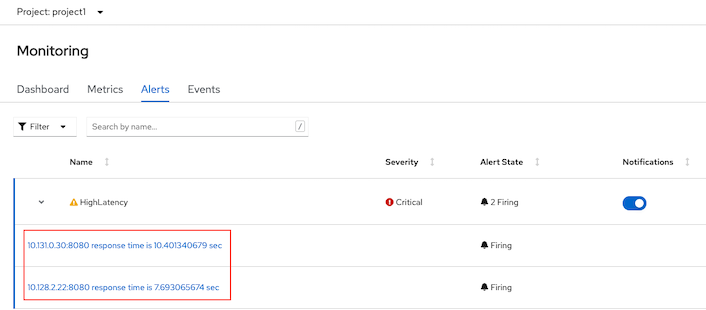
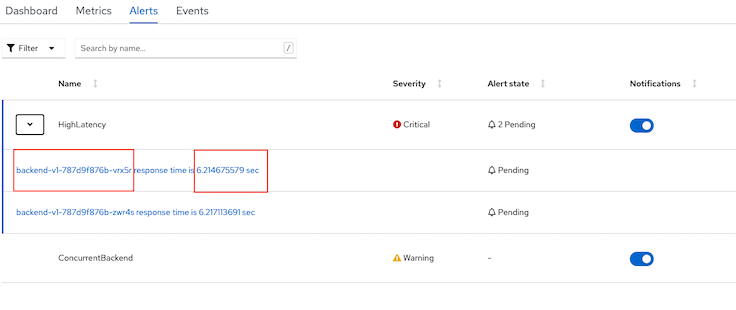
update latency alert

diff --git a/application-metrics.md b/application-metrics.md
@@ -285,10 +285,16 @@ Use Grafana Operator (Community Edition) to deploy Grafana and configure datasou
   [backend-app-alert](manifests/backend-custom-alert.yaml) is consists with 2 following alerts:
   
   - ConcurrentBackend
-    severity warning when total concurrent reqeusts is greater than 15
-  - HighLatency
-    servierity critical when response time is greateer than 5 sec  
 
+    ```
+    Severity warning when total concurrent reqeusts is greater than 15 sustains 1 minute
+    ```
+
+  - HighLatency
+
+    ```
+    Servierity critical when response time is greater than 5 seconds sustains 1 minute
+    ```
 
 - Create [backend-app-alert](manifests/backend-custom-alert.yaml) 
 
@@ -314,11 +320,13 @@ Use Grafana Operator (Community Edition) to deploy Grafana and configure datasou
   ```
   
 - Test `ConcurrentBackend` alert with 25 concurrent requests
+  - Run load test tool
 
   ```bash
   FRONTEND_URL=https://$(oc get route frontend -n project1 -o jsonpath='{.spec.host}')
   siege -c 25 $FRONTEND_URL
   ```
+
   If you don't have siege, run k6 as pod on OpenShift
   - 25 threads
   - Duration 2 minutes
@@ -333,12 +341,12 @@ Use Grafana Operator (Community Edition) to deploy Grafana and configure datasou
   -e URL=$FRONTEND_URL -e THREADS=25 -e DURATION=2m -e RAMPUP=30s -e RAMPDOWN=30s
   ```
 
-  Check for alert in Developer Console by select Menu `Monitoring` then select `Alerts`
+  - Check for alert in Developer Console by select Menu `Monitoring` then select `Alerts`
 
-  ![](images/alert-concurrent-backend.png)
+    ![](images/alert-concurrent-backend.png)
 
 - Test `HighLatency` alert
-  - Set backend with 6 sec response tim
+  - Set backend with 6 sec response time
     - By CLI
       ```bash
       oc set env deployment/backend-v1 APP_BACKEND=https://httpbin.org/delay/6 -n project1
@@ -351,6 +359,7 @@ Use Grafana Operator (Community Edition) to deploy Grafana and configure datasou
       - Select `Environment` and set APP_BACKEND to https://httpbin.org/delay/6
 
         ![](images/dev-console-edit-environment.png)
+        
   - Request to frontend app
     
     ```bash
